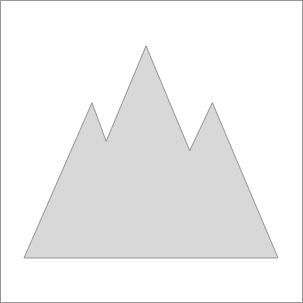
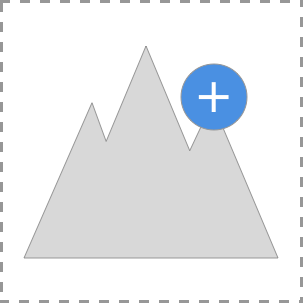
up to galery

Changed region(s): [[0.0, 0.0, 1.0, 1.0], [0.5941, 0.2079, 0.8317, 0.4455]]

diff --git a/frontend/components/structure/main/new_product/details.jsx b/frontend/components/structure/main/new_product/details.jsx
@@ -22,6 +22,7 @@ class Details extends React.Component {
           placeholder='Name of the tool'
           value={this.props.title}
           onChange={this.props.handleChange}
+          required
         />
         <label htmlFor="tagline">Tagline</label>
         <input
@@ -32,6 +33,7 @@ class Details extends React.Component {
           placeholder='Short catchy tagline for the tool'
           value={this.props.tagline}
           onChange={this.props.handleChange}
+          required
         />
         <label htmlFor="topics">Topics</label>
         <input
@@ -43,18 +45,23 @@ class Details extends React.Component {
           value={this.props.topic}
           onChange={this.props.handleChange}
         />
-        <label htmlFor="logo">Logo Upload</label>
-        <input
-          className='form-control logo'
-          type="file" 
-          id="logo"
-          name='logo'
-          accept="image/gif, image/jpeg, image/png"
-          files={this.props.logo}
-          onChange={this.props.handleChange}
-        />
-        {previewImage}
-        <label htmlFor="status">This tool hasn't been released yet</label>
+        <section className="logo-section">
+          <label htmlFor="logo">Logo Upload</label>
+          <input
+            className='form-control logo'
+            type="file" 
+            id="logo"
+            name='logo'
+            accept="image/gif, image/jpeg, image/png"
+            files={this.props.logo}
+            onChange={this.props.handleChange}
+            required
+            />
+          {previewImage} 
+            <p>Recommended size: 240x240 <br/>
+            JPG, PNG, GIF. Max size: 2MB</p>
+        </section>
+        <label htmlFor="status">Status</label>
         <input 
           className='form-control'
           type="checkbox" 
@@ -62,7 +69,7 @@ class Details extends React.Component {
           name='status'
           value={!this.props.submit}
           onChange={this.props.handleChange}
-        />
+        /><p className='status'>This tool hasn't been released yet</p>
       </section>
     )
   }

diff --git a/app/assets/stylesheets/components/product_form.scss b/app/assets/stylesheets/components/product_form.scss
@@ -28,7 +28,7 @@ main.product-form {
 
     width: 100%;
 
-    p {
+    p.preview {
       font-size: 11px;
       padding: 10px 20px;
       color: $gray;
@@ -63,41 +63,67 @@ main.product-form {
         width: 100%;
         display: flex;
         flex-direction: column;
-  
+        position: relative;
+
         label {
           font-size: 13px;
           font-weight: bold;
           margin: 10px 0;
         }
-  
+        
         input {
           padding: 3px;
           padding-left: 10px;
           margin: 10px 0;
         }
 
-        input.logo {
-          width: 80px;
-          height: 80px;
-          box-sizing: border-box;
-          z-index: 1000;
-          opacity: 0;
+        .logo-section {
+          display: flex;
+          flex-direction: column;
+          position: relative;
+
+          input.logo {
+            width: 80px;
+            height: 80px;
+            box-sizing: border-box;
+            z-index: 1000;
+            opacity: 0;
+            cursor: pointer;
+          }
+
+          input::placeholder {
+            font-size: 11px;
+          }
+
+          p {
+            padding-left: 100px;
+            color: $gray;
+            position: absolute;
+            font-size: 13px;
+            color: gray;
+            top: 92px;
+          }
+  
+          img {
+            position: absolute;
+            top: 46px;
+            width: 80px;
+            height: 80px;
+            background: white image-url('Mountain.png') ;
+            background-size: cover;
+          }
+
+          img[src] {
+            background-size: 0;
+          }
         }
   
-        input::placeholder {
+        p.status {
           font-size: 13px;
-        }
-
-        img {
+          color: gray;
           position: absolute;
-          top: 489px;
-          width: 80px;
-          height: 80px;
-          background: white image-url('Mountain.png') ;
-          background-size: cover;
-        }
-        img[src] {
-          background-size: 0;
+          top: 455px;
+          left: 26px;
         }
       }
 

diff --git a/frontend/components/structure/main/new_product/galery.jsx b/frontend/components/structure/main/new_product/galery.jsx
@@ -6,18 +6,30 @@ class Galery extends React.Component {
       return null;
     }
 
+    // loop over screenshots
+    let previewImage = new Array(this.props.screenshots.length);
+    debugger
+    const previewImages = previewImage.map((_,idx) => {
+      return <img src={URL.createObjectURL(this.props.screenshots[idx])} />
+    });
+
     return (
       <section className="form-group">
-        <label htmlFor="screenshots">Screenshots</label>
-        <input
-          className='form-control'
-          type="file"
-          id="screenshots"
-          multiple
-          name='screenshots'
-          files={this.props.screenshots}
-          onChange={this.props.handleChange}
-        />
+        <section className="screenshots-section">
+          <label htmlFor="screenshots">Screenshots</label>
+          <input
+            className='form-control screenshots'
+            type="file"
+            id="screenshots"
+            multiple
+            name='screenshots'
+            files={this.props.screenshots}
+            onChange={this.props.handleChange}
+            accept="image/gif, image/jpeg, image/png"
+            required
+          />
+          {previewImages}
+        </section>
         <label htmlFor="youtube">YouTube video</label>
         <input
           className='form-control'

diff --git a/frontend/components/structure/main/new_product/product_form.jsx b/frontend/components/structure/main/new_product/product_form.jsx
@@ -29,10 +29,12 @@ class ProductForm extends React.Component {
     if ( name == 'logo' ) {
       product[name] = e.target.files[0]
     } else if ( name == 'screenshots' ) {
-      product[name] = e.target.files
+      product[name] = product[name] || [];
+      product[name].concat(e.target.files);
     } else {
       product[name] = value;
     }
+    debugger
     this.setState({
       product
     });

diff --git a/frontend/components/structure/main/new_product/product_preview.jsx b/frontend/components/structure/main/new_product/product_preview.jsx
@@ -7,7 +7,7 @@ class ProductPreview extends React.Component {
     const { currentStep } = this.props;
     const preview = (currentStep === 2) ? (
         <section className="product-preview">
-          <p>PREVIEW</p>
+          <p className='preview'>PREVIEW</p>
           <FeedListItem 
             product={this.props.product} 
             fromPreview={this.props.fromPreview}

diff --git a/frontend/components/structure/main/new_product/website.jsx b/frontend/components/structure/main/new_product/website.jsx
@@ -17,6 +17,7 @@ class Website extends React.Component {
           placeholder='Website of the tool'
           value={this.props.website}
           onChange={this.props.handleChange}
+          required
         />
       </section>
     )
